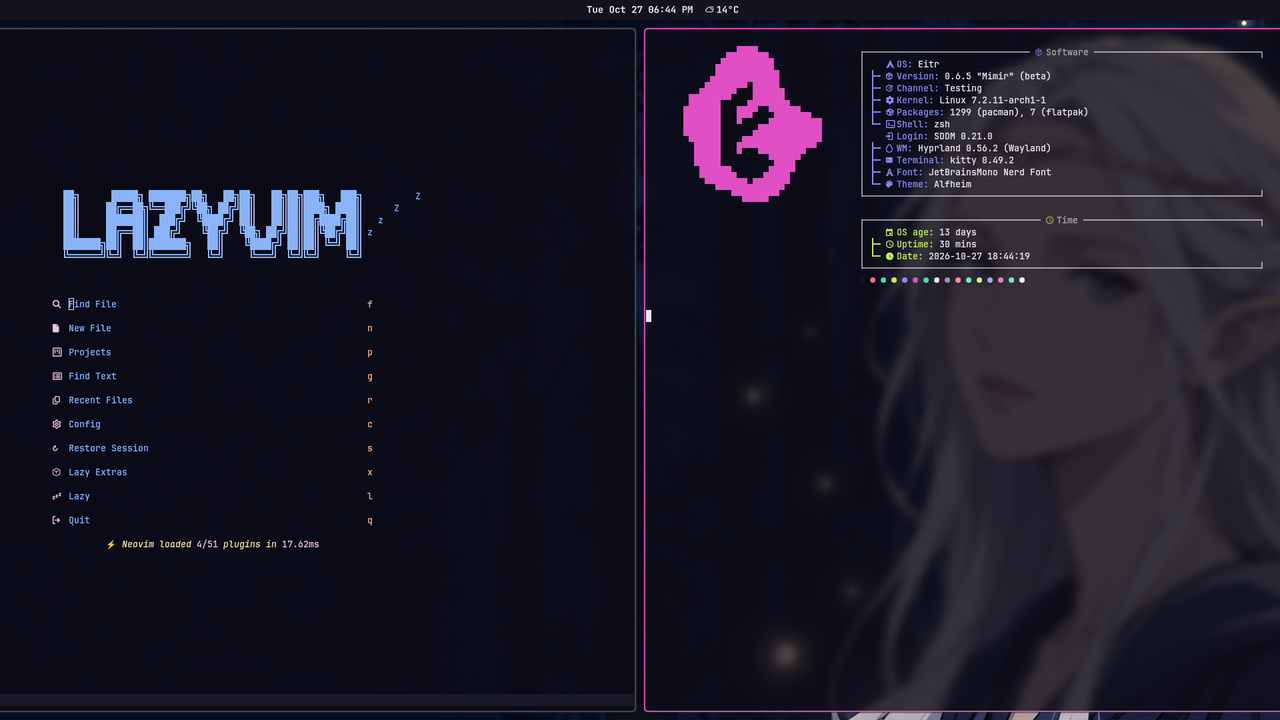
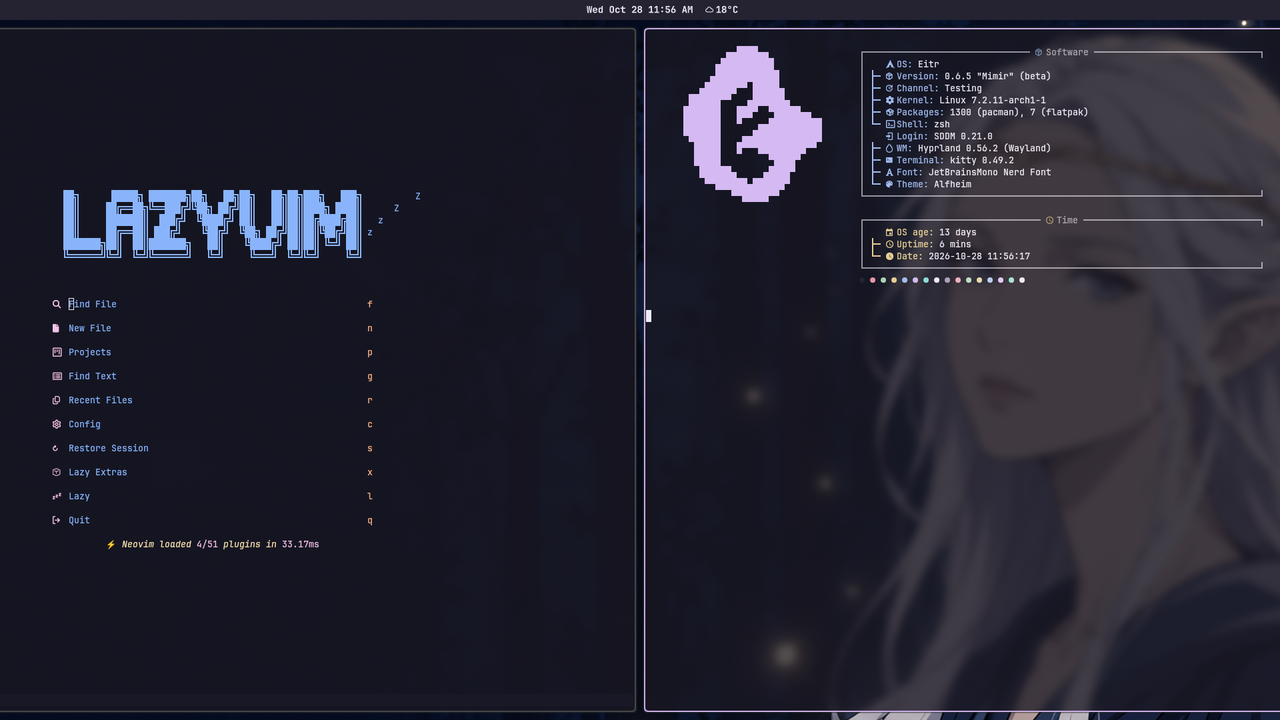
Realm theme previews in the owner's realm palettes

diff --git a/TODO.md b/TODO.md
@@ -40,36 +40,8 @@ LAN.
 
 - **Theme previews.** Previews are Neovim + About screenshots (2026-10-27); `branding/sources/wallpapers/batch-05/export.py` still rewrites realm previews from wallpapers, so drop its preview step before rerunning it.
 - **Realm theme colours.** The owner's palettes (from their realm CSV) are applied to
-  the nine realms; Ragnarök keeps Blood & Iron. Waiting on the owner: whether any
-  should be darker. Afterwards retake the Neovim + About previews of the realm themes
-  (they still show the old colours).
-- **Panel smoothness review.** Every bar panel, Control Center page and popup must open
-  and close fluidly. Some still start opening, freeze, then finish (data loading or
-  rebuilding during the animation, as Control Center and Display did before
-  `JsonState.js` prefetching). Measure each panel's open on the live desktop, find
-  mid-animation work (process launches, model rebuilds, image loads, layout jumps),
-  prefetch it or apply it within the same reveal, and keep a checklist of panels verified. The repository audit,
-  warm guarded snapshots, capped pre-reveal readiness, shared-deadline size retargeting
-  and per-panel offscreen measurements are in desktop-bar/README.md;
-  every entry still needs the live check. Then a full review
-  and testing round of all panels with the owner.
-- **Reduce motion option.** A Style > Desktop Bar setting to turn off panel open/close
-  effects (unfold, fold, Overview entrances), applied everywhere through
-  `DesktopStyle`/`DockPanel`, saved in `bar-settings.json`, Walker and QML settings.
-  Implemented with five-language Handbook/catalog updates; live review remains.
-- **Official plugins repository.** `eitr-org/eitr-plugins` is public with the
-  Visualizer (2026-10-28); Add Plugin lists a repository's plugins from its
-  `eitr-plugins.json` index. Next: add more plugins there and mention the repository
-  on the website and in the Handbook. Ideas: a system monitor widget (CPU/GPU/RAM
-  graphs), a weather widget, a calendar/agenda widget, a now-playing card with album
-  art, a Pomodoro timer, a clipboard history tile, a GitHub notifications/PR tile, a
-  Docker containers tile, a Home Assistant switchboard, a crypto/stock ticker, a
-  world clock, a sticky notes widget, a network speed graph, a CI status tile (GitHub
-  Actions), a Tailscale peers tile.
-- **Themes from a Git repository.** Let users add a theme by repository URL, like
-  plugins: validate `colors.toml` and the theme files against `test_theme_schema.py`'s
-  contract, review before installing, pin to a commit, offer updates through System
-  Update, and list user themes next to the bundled ones. Bundled themes stay as they are.
+  the nine realms, with Neovim + About previews retaken (2026-10-28); Ragnarök keeps
+  Blood & Iron. Waiting on the owner: whether any should be darker.
 - **Auto-hide bar.** Implemented for every edge and layout;
   live Hyprland pointer-edge and exclusive-zone checks are pending before release.
 - **Boot, shutdown and disk-password screens.** Shared Bifröst logo colours and
